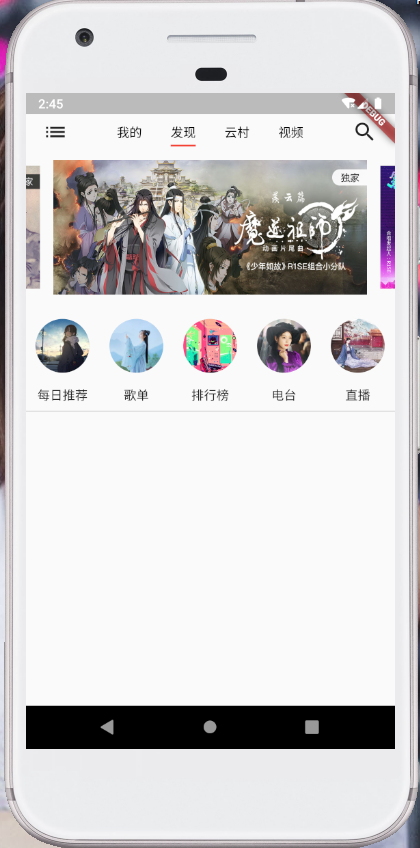
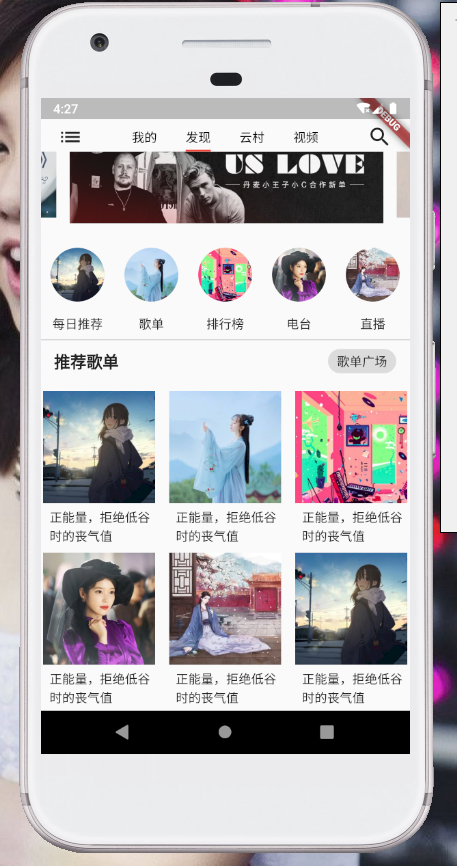
推荐歌单实现

diff --git a/lib/pages/search/search.dart b/lib/pages/search/search.dart
@@ -105,7 +105,7 @@ class RecommendSongList extends StatelessWidget {
   // 推荐歌单标题
   Widget _title(BuildContext context) {
     return Container(
-      padding: EdgeInsets.only(left: 15.0, right: 15.0),
+      padding: EdgeInsets.only(left: 15.0, right: 15.0,bottom: 20),
       child: Row(
         mainAxisAlignment: MainAxisAlignment.spaceBetween,
         children: <Widget>[
@@ -128,25 +128,25 @@ class RecommendSongList extends StatelessWidget {
   }
 
   Widget _recommendItem(BuildContext context, item) {
-    return InkWell(
+    return Center(
       child: Container(
-        width: 125,
-        height: 190,
-        color: Colors.blue,
+        width: 130,
+        height: 180,
         child: Column(
-          mainAxisAlignment: MainAxisAlignment.spaceBetween,
+          // mainAxisAlignment: MainAxisAlignment.spaceBetween,
           children: <Widget>[
             Image.network(
               item["img"],
-              width: 95,
-              // height: 100,
-              // fit: BoxFit.fill,
+              width: 125,
             ),
-            Text(
-              item["desc"] + "akfdsujlkasjfkljasldf",
+            Padding(
+              padding: EdgeInsets.only(top: 5,left: 10),
+              child: Text(
+              item["desc"],
               maxLines: 2,
-              // overflow: TextOverflow.ellipsis,
+              overflow: TextOverflow.ellipsis,
             ),
+            )
           ],
         ),
       ),
@@ -156,23 +156,39 @@ class RecommendSongList extends StatelessWidget {
   @override
   Widget build(BuildContext context) {
     return Container(
-      height: 400,
-      color: Colors.green,
+      height: 600,
       child: Column(
         children: <Widget>[
           _title(context),
-          Container(
-            height: 300,
-            width: 600,
-            color: Colors.red,
-            child: GridView.count(
-              scrollDirection: Axis.vertical,
-              crossAxisCount: 3,
-              children: recommendList
-                  .map((item) => _recommendItem(context, item))
-                  .toList()
-            ),
-          )
+          Row(
+            mainAxisAlignment: MainAxisAlignment.spaceBetween,
+            children: <Widget>[
+              _recommendItem(context, recommendList[0]),
+              _recommendItem(context, recommendList[1]),
+              _recommendItem(context, recommendList[2]),
+            ],
+          ),
+           Row(
+            mainAxisAlignment: MainAxisAlignment.spaceBetween,
+            children: <Widget>[
+              _recommendItem(context, recommendList[3]),
+              _recommendItem(context, recommendList[4]),
+              _recommendItem(context, recommendList[5]),
+            ],
+          ),
+          // Container(
+          //   height: 2300,
+          //   width: 750,
+          //   color: Colors.red,
+          //   child: GridView.count(
+          //     physics: new NeverScrollableScrollPhysics(),
+          //     scrollDirection: Axis.vertical,
+          //     crossAxisCount: 2,
+          //     children: recommendList
+          //         .map((item) => _recommendItem(context, item))
+          //         .toList()
+          //   ),
+          // )
         ],
       ),
     );

diff --git a/lib/config/resource.dart b/lib/config/resource.dart
@@ -50,19 +50,19 @@ List recommendList = [
     "img":
         "http://p.qpic.cn/music_cover/Uj77DagTFgiccudSicYvppRps3XU1ib4YFHdmTnkACW9L85ZXEkkkAUmA/300?n=1"
   },
-  // {
-  //   "desc": "正能量，拒绝低谷时的丧气值",
-  //   "img":
-  //       "http://p.qpic.cn/music_cover/4fNUrZe1KnJJVic1Aq97mkiavzuo8so2NbESRxkoVd4JfAMmUZP4HUDw/300?n=1"
-  // },
-  // {
-  //   "desc": "正能量，拒绝低谷时的丧气值",
-  //   "img":
-  //       "http://p.qpic.cn/music_cover/yaAoR5gcqYJQAXtyFibrhPRmqX1baoyIAvSPjaeJXPDKRD7zrbXtnpw/300?n=1"
-  // },
-  // {
-  //   "desc": "正能量，拒绝低谷时的丧气值",
-  //   "img":
-  //       "http://p.qpic.cn/music_cover/bglUEFSMMhA3eiblfHXvQRPLWicw02rzkpicmbqtaibV7MbEVruOa5g59A/300?n=1"
-  // }
+  {
+    "desc": "正能量，拒绝低谷时的丧气值",
+    "img":
+        "http://p.qpic.cn/music_cover/4fNUrZe1KnJJVic1Aq97mkiavzuo8so2NbESRxkoVd4JfAMmUZP4HUDw/300?n=1"
+  },
+  {
+    "desc": "正能量，拒绝低谷时的丧气值",
+    "img":
+        "http://p.qpic.cn/music_cover/yaAoR5gcqYJQAXtyFibrhPRmqX1baoyIAvSPjaeJXPDKRD7zrbXtnpw/300?n=1"
+  },
+  {
+    "desc": "正能量，拒绝低谷时的丧气值",
+    "img":
+        "http://p.qpic.cn/music_cover/bglUEFSMMhA3eiblfHXvQRPLWicw02rzkpicmbqtaibV7MbEVruOa5g59A/300?n=1"
+  }
 ];
